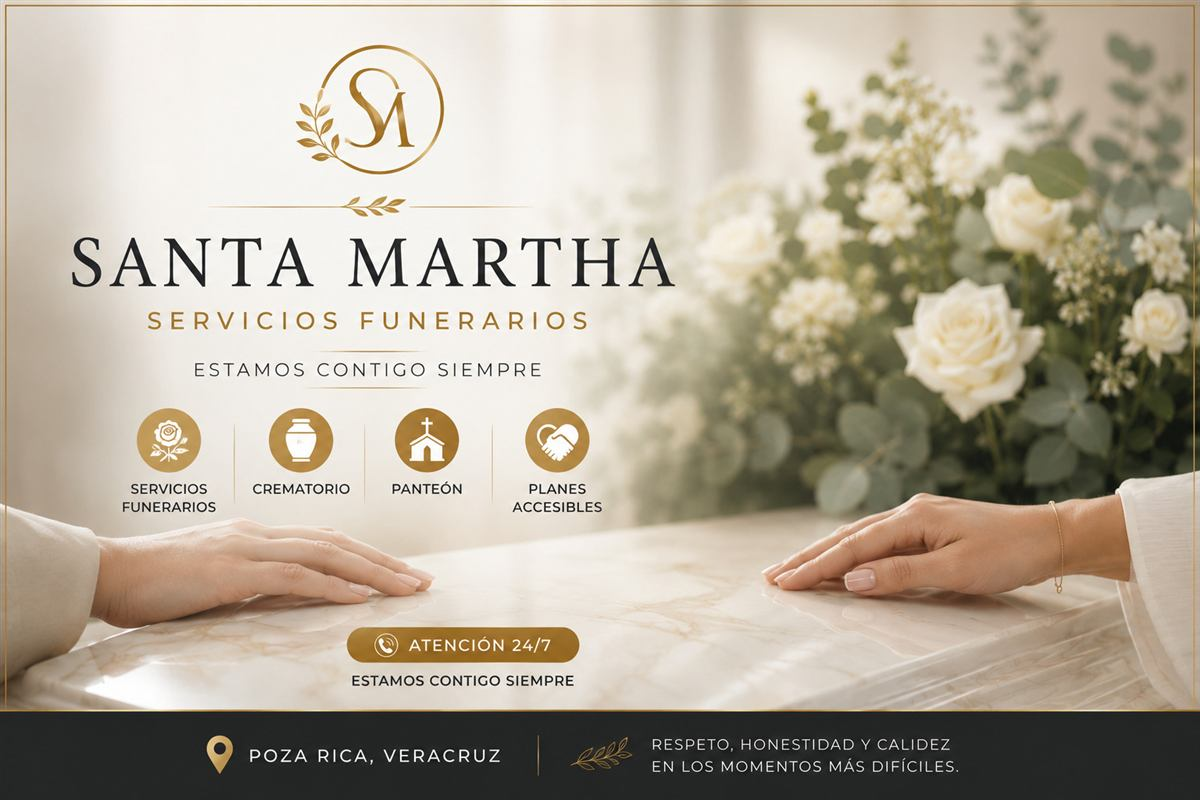
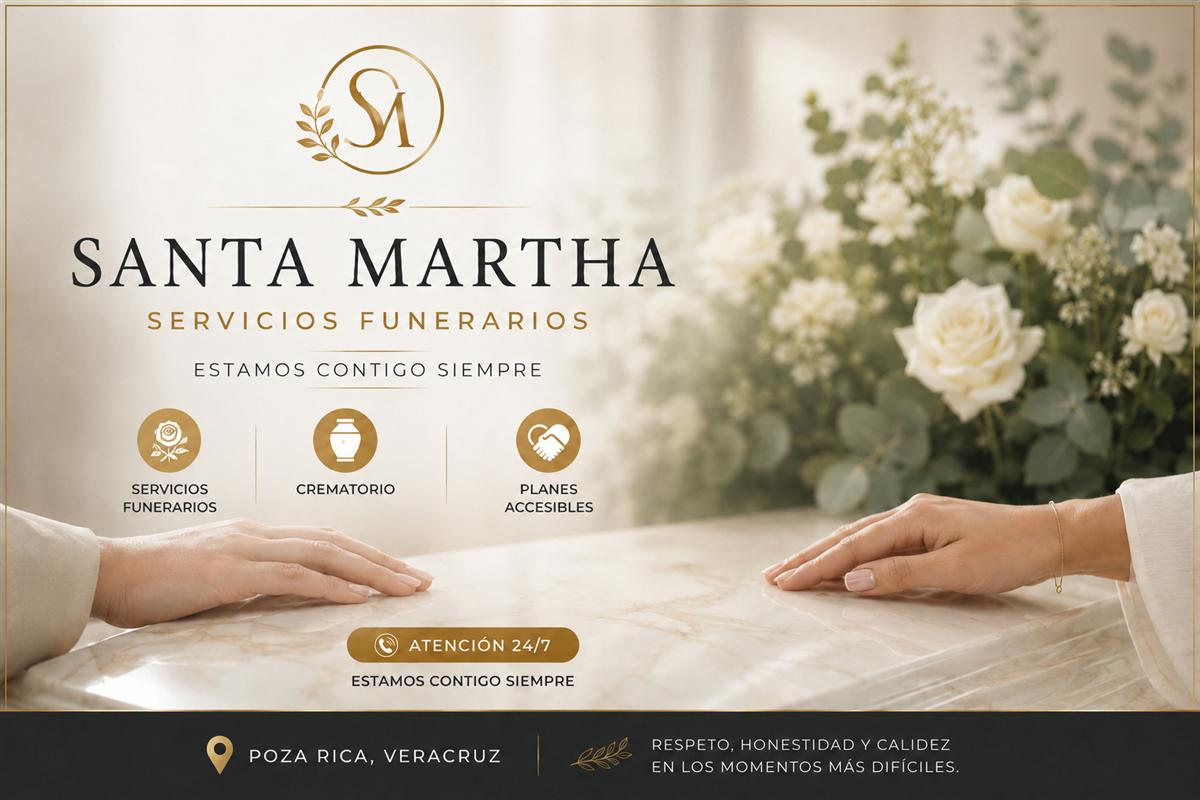
Se corrigen metadatos de posicionamiento del sitio

diff --git a/src/index.html b/src/index.html
@@ -5,7 +5,7 @@
   <title>Funeraria Santa Martha | Servicios Funerarios en Poza Rica, Veracruz</title>
   <base href="/">
   <meta name="viewport" content="width=device-width, initial-scale=1">
-  <link rel="icon" type="image/x-icon" href="favicon.ico">
+  <link rel="icon" type="image/png" href="favicon.png">
 
   <!-- SEO -->
   <meta name="description" content="Funeraria Santa Martha en Poza Rica, Veracruz. Servicios funerarios, crematorio y panteón con atención 24/7. Planes funerarios accesibles. Funerarias Rivas. Sociedad Humanista Santa Martha S.A. de C.V.">